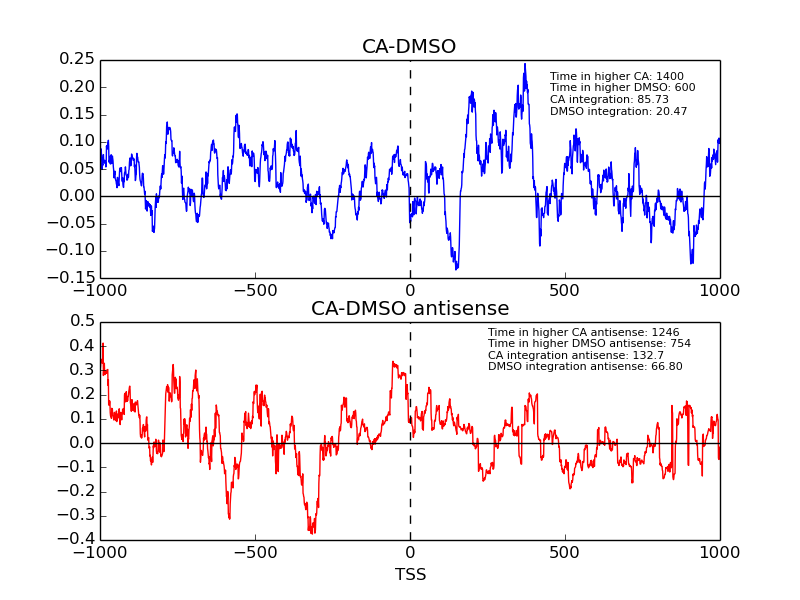
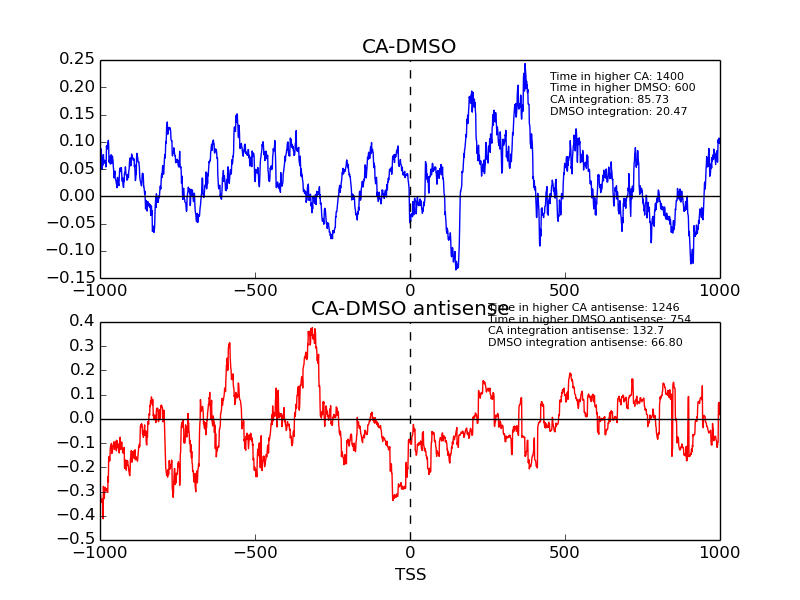
updates

Changed region(s): [[0.0938, 0.51, 0.9062, 0.9], [0.0938, 0.84, 0.125, 0.9]]

diff --git a/src/metagene_TSS.py b/src/metagene_TSS.py
@@ -153,7 +153,7 @@ def run(file1,file2,file3):
     DMSOtimea = 0
     CAtota = 0
     DMSOtota = 0
-    for val in CAantiarray-DMSOantiarray:
+    for val in -(CAantiarray)-(-DMSOantiarray):
         if val > 0:
             CAtimea += 1
             CAtota += val
@@ -189,7 +189,7 @@ def run(file1,file2,file3):
     ax2 = F1.add_subplot(2,1,2)
     ax2.plot(x2,-CAantiarray-(-DMSOantiarray),color='r')
     ax2.set_title('CA-DMSO antisense')
-    ax2.text(250,0.3,"Time in higher CA antisense: " + str(CAtimea) + "\nTime in higher DMSO antisense: " + str(DMSOtimea) + "\nCA integration antisense: " + str(CAtota)[:5] + "\nDMSO integration antisense: " + str(DMSOtota)[:5],fontsize=8)
+    ax2.text(250,-0.45,"Time in higher CA antisense: " + str(CAtimea) + "\nTime in higher DMSO antisense: " + str(DMSOtimea) + "\nCA integration antisense: " + str(CAtota)[:5] + "\nDMSO integration antisense: " + str(DMSOtota)[:5],fontsize=8)
     ax2.get_xaxis().tick_bottom()
     ax2.get_yaxis().tick_left()
     #plt.legend(['CA-DMSO','DMSO-CA antisense'], loc='upper left',fontsize=8)
